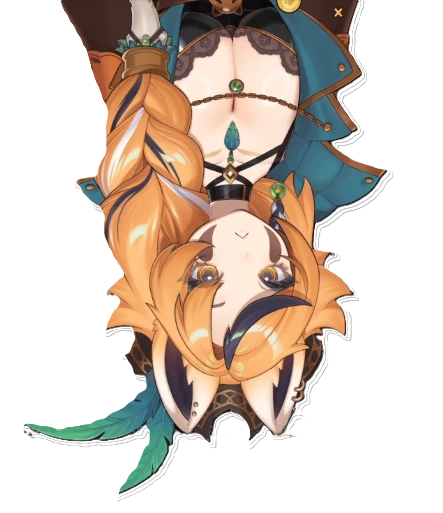
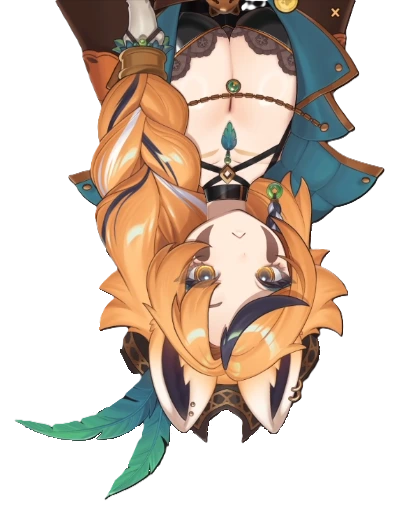
Improve pictures borders

diff --git a/app/data/imageDimensions.ts b/app/data/imageDimensions.ts
@@ -50,7 +50,7 @@ export const imageDimensions: Record<string, readonly [number, number]> = {
   '/images/fanarts/fanart-7.webp': [607, 840],
   '/images/fanarts/fanart-8.webp': [1355, 839],
   '/images/fanarts/fanart-9.webp': [833, 840],
-  '/images/keola/Keola_left_side_inclined_v1.webp': [465, 693],
+  '/images/keola/Keola_left_side_inclined_v1.webp': [465, 675],
   '/images/keola/Keola_left_side_inclined_v2.webp': [347, 512],
   '/images/keola/Keola_Peak.webp': [712, 632],
   '/images/keola/Keola_chibi_looking.webp': [476, 524],
